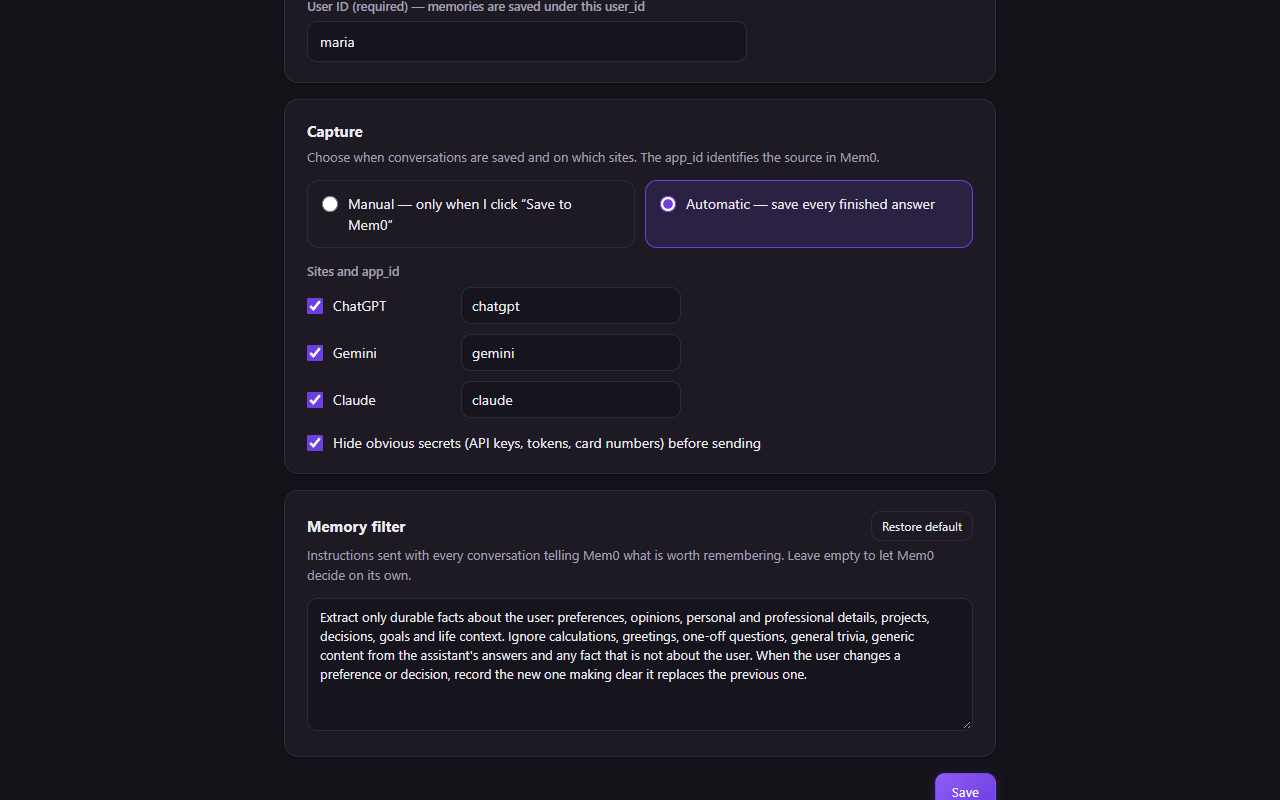
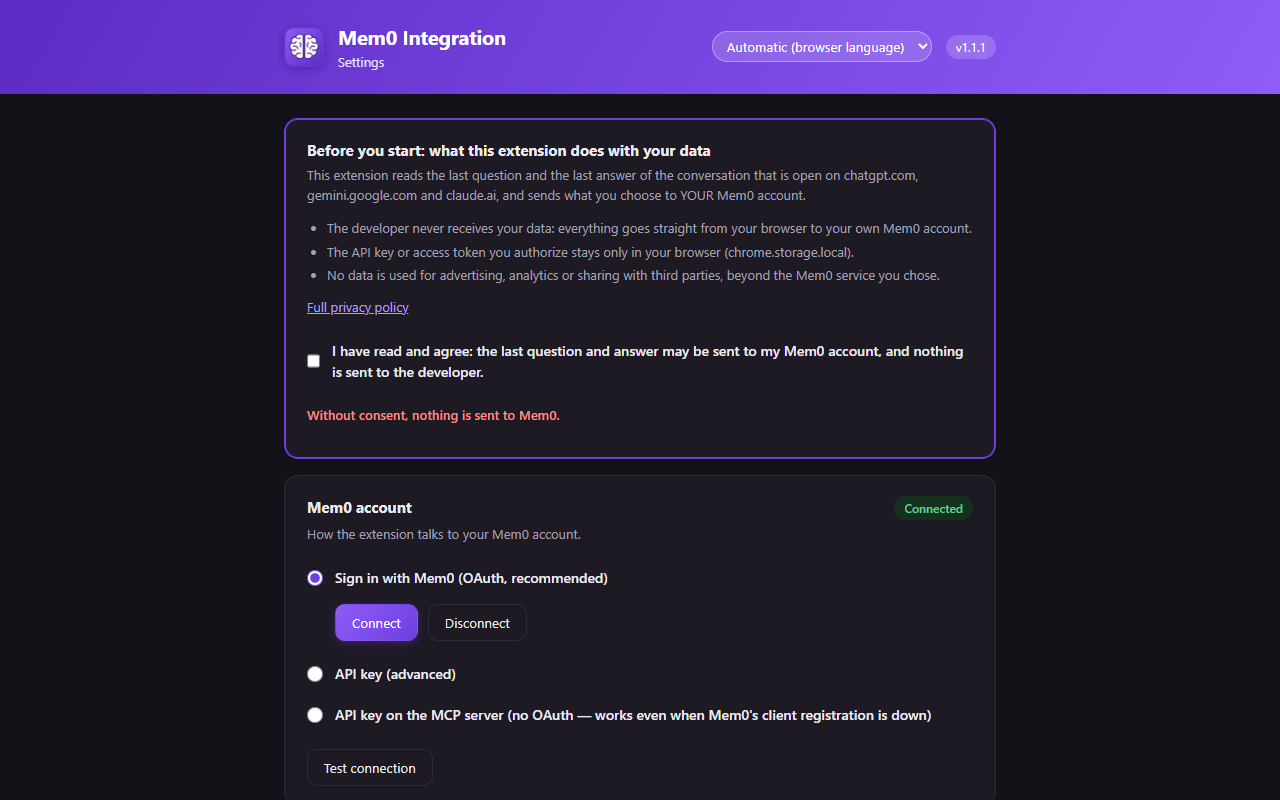
v1.1.1: consentimento de politica de dados (divulgacao na interface + gate no service worker)

diff --git a/src/options.js b/src/options.js
@@ -17,6 +17,8 @@ async function load() {
   for (const k of SITES) { $(`site_${k}`).checked = !!s.sites[k]; $(`app_${k}`).value = s.appIds[k] || k; }
   $("redact").checked = !!s.redactSecrets;
   $("instructions").value = s.instructions || "";
+  $("consent").checked = !!s.consent;
+  consentNote();
   // nos modos com chave de API o estado é a própria chave, não o OAuth
   const connected = s.authMode === "oauth" ? !!auth : !!(s.apiKey || "").trim();
   $("authState").textContent = connected ? t("connected") : t("notConnected");
@@ -41,7 +43,21 @@ function collect() {
     appIds: Object.fromEntries(SITES.map((k) => [k, $(`app_${k}`).value.trim() || k])),
     redactSecrets: $("redact").checked,
     instructions: $("instructions").value.trim(),
+    consent: $("consent").checked,
   };
+}
+
+// o aceite é a condição para qualquer coisa que toque dados do usuário (conectar, testar, enviar)
+function consentNote() {
+  const on = $("consent").checked;
+  $("consentOut").textContent = on ? "" : t("consentOff");
+  $("consentOut").className = "note" + (on ? "" : " err");
+}
+function requireConsent(el) {
+  if ($("consent").checked) return true;
+  show(el, { ok: false, error: t("consentRequired") });
+  $("consentCard").scrollIntoView({ behavior: "smooth", block: "center" });
+  return false;
 }
 
 function show(el, r, okText) {
@@ -50,13 +66,17 @@ function show(el, r, okText) {
 }
 
 document.querySelectorAll("input[name=auth]").forEach((e) => e.addEventListener("change", toggle));
+$("consent").addEventListener("change", consentNote);
 $("save").onclick = async () => {
+  // salvar é sempre permitido: é assim que o usuário revoga o aceite (desmarca e salva)
   show($("saveOut"), await msg({ type: "setSettings", patch: collect() }), t("saved"));
+  consentNote();
   setTimeout(() => { $("saveOut").textContent = ""; }, 2500);
 };
 $("connect").onclick = async () => {
   const b = $("connect");
   if (b.disabled) return;
+  if (!requireConsent($("testOut"))) return;
   b.disabled = true;                       // evita vários cliques enquanto a janela do Mem0 abre
   $("authState").textContent = t("optWaiting");
   $("authState").className = "pill wait";
@@ -79,6 +99,7 @@ $("language").onchange = async () => {
 $("restoreInstr").onclick = async () => { $("instructions").value = (await msg({ type: "defaultInstructions" })).text; };
 $("disconnect").onclick = async () => { await msg({ type: "logout" }); load(); };
 $("test").onclick = async () => {
+  if (!requireConsent($("testOut"))) return;
   await msg({ type: "setSettings", patch: collect() });
   $("testOut").textContent = "…"; show($("testOut"), await msg({ type: "test" }));
 };

diff --git a/src/background.js b/src/background.js
@@ -31,6 +31,7 @@ const DEFAULTS = {
   redactSecrets: true,
   instructions: null,         // null = instrução padrão no idioma escolhido
   language: "auto",           // "auto" (idioma do navegador) | "pt_BR" | "en"
+  consent: false,             // aceite do usuário (política de dados da loja); sem aceite nada é enviado
 };
 
 // ---------- idioma ----------
@@ -372,6 +373,8 @@ async function addViaRest(ex, settings) {
 async function save(raw, { manual }) {
   const settings = await getSettings();
   if (!settings.enabled) return { status: "skipped", reason: "pausado" };
+  // política de dados da loja: sem aceite explícito do usuário, nada sai do navegador
+  if (!settings.consent) return { status: "consent", error: await T("consentNeed") };
   if (!settings.sites[raw.site]) return { status: "skipped", reason: "site desativado" };
   if (!manual && settings.mode !== "auto") return { status: "skipped", reason: "modo manual" };
   if (!settings.userId.trim()) {
@@ -432,9 +435,16 @@ chrome.runtime.onMessage.addListener((msg, _sender, reply) => {
       case "getState": return { settings: await getSettings(), auth: !!(await getAuth())?.accessToken,
         log: (await chrome.storage.local.get("log")).log || [] };
       case "setSettings": await setSettings(msg.patch); return { ok: true };
-      case "login": return login({ force: !!msg.force }).then(() => ({ ok: true }));
+      case "login": {
+        // a conexão OAuth e o teste de chave tocam dados do usuário: exigem aceite
+        if (!(await getSettings()).consent) return { ok: false, error: await T("consentRequired") };
+        return login({ force: !!msg.force }).then(() => ({ ok: true }));
+      }
       case "logout": await logout(); return { ok: true };
-      case "test": return { ok: true, message: await testConnection() };
+      case "test": {
+        if (!(await getSettings()).consent) return { ok: false, error: await T("consentRequired") };
+        return { ok: true, message: await testConnection() };
+      }
       case "clearLog": await chrome.storage.local.set({ log: [] }); chrome.action.setBadgeText({ text: "" }); return { ok: true };
       default: return { error: "mensagem desconhecida" };
     }

diff --git a/src/options.html b/src/options.html
@@ -16,6 +16,22 @@
 </header>
 
 <main class="wrap">
+  <section class="card consent-card" id="consentCard">
+    <div class="card-head"><h2 data-i18n="consentHeading"></h2></div>
+    <p class="desc" data-i18n="consentDesc"></p>
+    <ul class="consent-list">
+      <li data-i18n="consentItem1"></li>
+      <li data-i18n="consentItem2"></li>
+      <li data-i18n="consentItem3"></li>
+    </ul>
+    <p class="desc"><a id="consentPolicy" href="https://dellanio.github.io/memory-bridge/privacy.html" target="_blank" rel="noopener" data-i18n="consentPolicy"></a></p>
+    <label class="choice">
+      <input type="checkbox" id="consent">
+      <span class="choice-body"><strong data-i18n="consentAccept"></strong></span>
+    </label>
+    <p class="note" id="consentOut"></p>
+  </section>
+
   <section class="card">
     <div class="card-head"><h2 data-i18n="secAccount"></h2><span id="authState" class="pill"></span></div>
     <p class="desc" data-i18n="secAccountDesc"></p>

diff --git a/src/ui.css b/src/ui.css
@@ -52,6 +52,11 @@ input[type=radio],input[type=checkbox]{accent-color:var(--brand);width:16px;heig
 .btn.primary:hover{filter:brightness(1.07)}
 .btn.ghost{background:transparent}
 
+/* consentimento (política de dados) */
+.consent-card{border-color:var(--brand);box-shadow:0 0 0 1px var(--brand) inset,var(--shadow)}
+.consent-list{margin:0 0 12px;padding-left:20px;color:var(--muted);font-size:13px}
+.consent-list li{margin:4px 0}
+
 /* status */
 .pill{font-size:12px;font-weight:600;padding:3px 10px;border-radius:999px;background:var(--line);color:var(--muted);white-space:nowrap}
 .pill.ok{background:var(--ok-bg);color:var(--ok)} .pill.wait{background:var(--wait-bg);color:var(--brand)}

diff --git a/src/content.js b/src/content.js
@@ -250,6 +250,7 @@
       flash("ok", t("btnSaved", "Salvo ✓"));
       btn.title = (r.memories || []).join("\n");
     } else if (r.status === "nothing") blinkNothing();
+    else if (r.status === "consent") { blinkNothing(); btn.title = t("consentNeed"); }
     else if (r.status === "duplicate") { if (manual) flash("ok", t("btnAlready", "Já salvo ✓")); }
     else if (r.status === "pending") { if (manual) flash("busy", t("btnPending", "Enviado — o Mem0 ainda está processando"), 3000); }
     else if (r.status === "skipped") { btn.className = ""; lbl.textContent = LABEL; }

diff --git a/store/CHROME-STORE.md b/store/CHROME-STORE.md
@@ -4,7 +4,10 @@ Roteiro campo a campo para o Painel de controle do desenvolvedor da Chrome Web S
 (https://chrome.google.com/webstore/devconsole).
 
 - Conta de desenvolvedor: **planoplusdev@gmail.com**
-- Pacote: `npm run package:chrome` → `dist/memory-bridge-1.1.0-chrome.zip`
+- Pacote: `npm run package:chrome` → `dist/memory-bridge-1.1.1-chrome.zip`
+- Item criado no painel: **Memory Bridge for Mem0**, ID `jabbichbmjfhbmvpjkpinflnjffkgpe`
+  (criado no primeiro upload; a 1.1.0 foi o rascunho inicial e a 1.1.1 é a versão com o
+  consentimento de política de dados, que o Chrome exige).
 - Código: **o mesmo** da loja do Edge (`src/`, `icons/`, `_locales/`). A única diferença
   de manifesto é `minimum_chrome_version: "106"` (ver `scripts/package.mjs --chrome`).
 - O item no Chrome é **novo**: extension ID, listagem e fila de revisão próprios.
@@ -24,8 +27,8 @@ Roteiro campo a campo para o Painel de controle do desenvolvedor da Chrome Web S
 
 | Campo | Valor |
 |---|---|
-| Idioma da listagem | en-US (ou pt-BR — ver "Listagem" abaixo) |
-| Categoria | Produtividade (Productivity) |
+| Idioma da listagem | en-US (uma listagem por item) |
+| Categoria | Workflow & Planning (Productivity) |
 | Site (homepage) | https://dellanio.com |
 | URL de suporte | https://dellanio.github.io/memory-bridge/ |
 | Política de privacidade (URL) | https://dellanio.github.io/memory-bridge/privacy.html |
@@ -33,17 +36,22 @@ Roteiro campo a campo para o Painel de controle do desenvolvedor da Chrome Web S
 | Público-alvo | 13+ / todos os públicos |
 | Visibilidade | Pública |
 
+O campo **Official URL** fica vazio de propósito: ele só aceita domínios registrados no
+Search Console dessa conta, e o `dellanio.com` ainda não está registrado lá (o painel
+mostra "This URL is not verified in Google Search Console"). Para usar, registre o domínio
+no Search Console e associe à conta do Chrome Web Store.
+
 ## Imagens (reaproveitadas da loja do Edge — os tamanhos servem nos dois canais)
 
 | Campo | Arquivo |
 |---|---|
-| Ícone (128×128) | `icons/icon128.png` |
+| Ícone (128×128) | `store/icon-128-rgb.png` (**sem canal alfa** — o Chrome recusa PNG com alfa; o `icons/icon128.png` da extensão tem alfa e não serve para a loja) |
 | Capturas de tela (1280×800) | `store/screenshot-1-options-en.png`, `store/screenshot-2-popup-en.png` (ou `-pt`) |
 | Bloco promocional pequeno (440×280) | `store/promo-440x280-en.png` (ou `-pt`) |
 | Bloco promocional grande (1400×560) | `store/promo-1400x560-en.png` (ou `-pt`) |
 
 O Chrome aceita captura de 1280×800 ou 640×400, até 5 por listagem. Os arquivos acima já
-estão em 1280×800.
+estão em 1280×800, em RGB (24-bit, sem alfa).
 
 ## Listagem
 
@@ -118,38 +126,57 @@ Saves the user's own AI chat exchanges (ChatGPT, Gemini and Claude) to the user'
 
 ## Privacidade / data usage
 
-O Chrome pede a declaração de uso de dados. O que vale declarar:
+O Chrome pede a declaração de uso de dados. A declaração usada é:
 
-- A extensão **não coleta** dados para uso próprio, **não vende** e **não usa** dados para
-  finalidades sem relação com o item (sem anúncios, sem analytics, sem servidor do desenvolvedor).
-- O conteúdo da conversa vai do navegador do usuário **direto para a conta Mem0 do próprio
-  usuário**, porque foi o usuário quem pediu (botão "Salvar no Mem0" ou modo automático que ele
-  ligou). Não há intermediário, não há compartilhamento com terceiros além do Mem0 escolhido
-  pelo usuário, e há um botão "Desconectar" que revoga o token.
-- Política de privacidade pública: https://dellanio.github.io/memory-bridge/privacy.html
+**Tipos de dados tratados (marcar):**
 
-Se o formulário oferecer as opções "Dados coletados" / "Dados compartilhados", a resposta
-honesta é: os dados do usuário (conteúdo da conversa) **não são coletados** pelo desenvolvedor
-e **não são compartilhados** com terceiros — o envio é para o serviço (Mem0) que o próprio
-usuário escolheu e configurou.
+| Caixa | Item |
+|---|---|
+| ✅ | **Website content** — o texto da última pergunta e da última resposta |
+| ✅ | **Personal communications** — as mensagens de chat |
+| ✅ | **Authentication information** — o token/chave de API do Mem0 que o usuário autoriza |
+| ⬜ | as demais (PII, Health, Financial, Location, Web history, User activity) |
+
+**As três certificações (marcar todas):** não vende nem transfere dados para terceiros fora
+do uso aprovado; não usa nem transfere dados para finalidades sem relação com o único
+propósito; não usa nem transfere dados para avaliar a capacidade de crédito.
+
+**Por que isso é honesto.** A extensão lê o conteúdo da página e o envia para fora do
+navegador — para a conta Mem0 **do próprio usuário**, com as **credenciais do próprio
+usuário**, a pedido do usuário. O desenvolvedor não recebe nada: não há servidor dele,
+nem analytics, nem anúncios. O destino (mcp.mem0.ai / api.mem0.ai) é o serviço que o
+usuário escolheu e mantém.
+
+**Por que existe o consentimento (versão 1.1.1).** A Chrome Web Store exige que o produto
+que trata dados do usuário mostre a divulgação de forma destacada **na própria interface**
+e obtenha o consentimento afirmativo do usuário antes disso. Por isso a primeira seção da
+página de opções é a divulgação ("Before you start: what this extension does with your
+data") com uma caixa de aceite:
+
+- sem o aceite, o service worker **recusa** qualquer envio (status `consent`);
+- "Connect" e "Test connection" ficam bloqueados com a mensagem de política;
+- desmarcar e salvar **revoga** o consentimento — nada mais é enviado;
+- a política de privacidade publicada tem a declaração de **Limited Use** exigida pelo
+  Chrome, e está a um clique da extensão (link "Full privacy policy" na página de opções).
 
 ## Notas para a certificação (o revisor precisa de um caminho de teste)
 
 ```
 The extension needs a free Mem0 account (https://app.mem0.ai) to be tested.
 
-1. After installing, the options page opens. Click "Connect" and sign in to Mem0 (OAuth via chrome.identity.launchWebAuthFlow against https://mcp.mem0.ai). Alternatively choose an API key mode ("API key on the MCP server" or "API key") and paste a Mem0 API key.
-2. Fill "User ID" (any text, e.g. "tester") and click "Save".
-3. Open https://chatgpt.com (works without login) and send: "My favorite food is pizza. Reply only: ok".
-4. In automatic mode the "Save to Mem0" button turns green ("Saved ✓") a few seconds after the answer; the toolbar popup lists the memory created ("User's favorite food is pizza"). A question with nothing personal (e.g. "What is 12 x 12?") only makes the button blink grey.
-5. The same button is injected on https://gemini.google.com and https://claude.ai (both work without login; on Claude the conversation list is virtualized, so the extension reads the last mounted exchange).
+1. After installing, the options page opens. It starts with a data-policy disclosure: tick "I have read and agree: the last question and answer may be sent to my Mem0 account, and nothing is sent to the developer" and click "Save". Without that consent the extension refuses to send anything.
+2. Click "Connect" and sign in to Mem0 (OAuth via chrome.identity.launchWebAuthFlow against https://mcp.mem0.ai). Alternatively choose an API key mode ("API key on the MCP server" or "API key") and paste a Mem0 API key.
+3. Fill "User ID" (any text, e.g. "tester") and click "Save".
+4. Open https://chatgpt.com (works without login) and send: "My favorite food is pizza. Reply only: ok".
+5. In automatic mode the "Save to Mem0" button turns green ("Saved ✓") a few seconds after the answer; the toolbar popup lists the memory created ("User's favorite food is pizza"). A question with nothing personal (e.g. "What is 12 x 12?") only makes the button blink grey.
+6. The same button is injected on https://gemini.google.com and https://claude.ai (both work without login; on Claude the conversation list is virtualized, so the extension reads the last mounted exchange).
 
 Permissions:
-- storage: settings, sign-in token and recent activity, kept only in chrome.storage.local.
+- storage: settings, consent flag, sign-in token and recent activity, kept only in chrome.storage.local.
 - identity: OAuth sign-in to Mem0 (launchWebAuthFlow).
 - declarativeNetRequestWithHostAccess: one session rule that removes the Origin header only from the extension's own requests to mcp.mem0.ai (the Mem0 MCP server rejects requests that carry an Origin header with HTTP 403).
 - Host permissions https://mcp.mem0.ai/* and https://api.mem0.ai/*: the only servers the extension talks to.
-- Content scripts on chatgpt.com, chat.openai.com, gemini.google.com and claude.ai: read the last question/answer of the open conversation and show the save button. No data is sent anywhere except to the Mem0 account chosen by the user.
+- Content scripts on chatgpt.com, chat.openai.com, gemini.google.com and claude.ai: read the last question/answer of the open conversation and show the save button. No data is sent anywhere except to the Mem0 account chosen by the user, and only after the user consents in the extension's own UI.
 
 No remote code is loaded; all code is in the package.
 ```

diff --git a/README.md b/README.md
@@ -17,6 +17,7 @@ Browser extension for **Edge e Chrome** (Manifest V3) que salva o que importa da
 - Sends the last exchange (your question + the answer) with a configurable `user_id`, a per-site `app_id` (default `chatgpt` / `gemini` / `claude`) and metadata (`site`, `conversation_id`, `url`). Mem0 extracts the facts; the whole conversation is not stored.
 - Hides obvious secrets before sending (API keys, tokens, JWTs, private keys, card numbers). Can be turned off.
 - Interface in **Portuguese (Brazil)** and **English (US)**: follows the browser language or whatever you pick at the top of the Settings screen.
+- **Data-policy consent on first use:** the Settings screen opens with a plain-language disclosure of what is read and sent; nothing leaves the browser until you tick it and save, and unticking it revokes the consent.
 - Never sends the same exchange twice. History of the last 30 actions in the toolbar icon, with a red "!" when something fails.
 
 ## O que faz
@@ -26,6 +27,7 @@ Browser extension for **Edge e Chrome** (Manifest V3) que salva o que importa da
 - Envia a última troca (sua pergunta + a resposta) com `user_id` configurável, `app_id` por site (padrão `chatgpt` / `gemini` / `claude`) e metadados (`site`, `conversation_id`, `url`). O Mem0 extrai os fatos; a conversa inteira não é guardada.
 - Oculta segredos óbvios antes de enviar (chaves de API, tokens, JWT, chaves privadas, números de cartão). Pode desligar.
 - Interface em **Português (Brasil)** e **English (US)**: segue o idioma do navegador ou o que você escolher no topo da tela de Configurações.
+- **Consentimento de política de dados na primeira uso:** a tela de Configurações abre com a divulgação, em linguagem simples, do que é lido e enviado; nada sai do navegador até você marcar a caixa e salvar, e desmarcar revoga o aceite.
 - Não envia a mesma troca duas vezes. Histórico das últimas 30 ações no ícone, com "!" vermelho quando algo falha.
 
 ---
@@ -80,13 +82,13 @@ Se o login parar do nada, o conserto é: **Configurações → Conectar** (o cli
 
 1. `edge://extensions` (or `chrome://extensions`) → turn on **Developer mode**.
 2. **Load unpacked** → select this folder.
-3. In the options screen that opens: pick the authentication (OAuth, or API key on MCP/REST), click **Connect** (OAuth only) and fill in the **User ID**. **Test connection** confirms.
+3. In the options screen that opens: read the data-policy disclosure at the top, tick **"I have read and agree"** and **Save**, then pick the authentication (OAuth, or API key on MCP/REST), click **Connect** (OAuth only) and fill in the **User ID**. **Test connection** confirms.
 
 ## Instalar (modo desenvolvedor)
 
 1. `edge://extensions` (ou `chrome://extensions`) → ligue **Modo de desenvolvedor**.
 2. **Carregar sem compactação** → selecione esta pasta.
-3. Na tela de opções que abre: escolha a autenticação (OAuth, ou chave de API no MCP/REST), clique **Conectar** (só no OAuth) e preencha o **User ID**. **Testar conexão** confirma.
+3. Na tela de opções que abre: leia a divulgação de política de dados no topo, marque **"Li e concordo"** e **Salve**; depois escolha a autenticação (OAuth, ou chave de API no MCP/REST), clique **Conectar** (só no OAuth) e preencha o **User ID**. **Testar conexão** confirma.
 
 ---
 
@@ -145,11 +147,17 @@ O Claude renomeia os `data-testid` com frequência, então o adapter lê o texto
 
 ## Publication (Edge Add-ons and Chrome Web Store)
 
-Pending before publishing: final icons and screenshots, hosted privacy policy (based on `PRIVACY.md`), testing the OAuth flow with the final store ID (the dynamic registration redoes itself when the `redirect_uri` changes), and validating the Claude adapter with a signed-in account.
+- **Edge Add-ons**: 1.1.0 submitted and under review (store ID `0RDCKB8HRMN4`); the listing (en/pt), icon, screenshots and promo tiles are live.
+- **Chrome Web Store**: new item `jabbichbmjfhbmvpjkpinflnjffkgpe` on the account `planoplusdev@gmail.com`; listing in en-US, assets uploaded, privacy declared. The package built for it is `npm run package:chrome` (`minimum_chrome_version: 106`).
+- Both stores share the same `src/`; only the manifest and the distribution channel differ. Route and pitfalls: `store/PARTNER-CENTER.md` (Edge) and `store/CHROME-STORE.md` (Chrome).
+- Still pending: the Claude adapter has not been validated with a signed-in account, and the Edge item should get 1.1.1 (the version with the data-policy consent) once the 1.1.0 review frees the submission queue.
 
 ## Publicação (Edge Add-ons e Chrome Web Store)
 
-Pendências antes de publicar: ícones definitivos e capturas de tela, política de privacidade hospedada (base em `PRIVACY.md`), testar o fluxo OAuth com o ID definitivo da loja (o registro dinâmico se refaz sozinho quando o `redirect_uri` muda) e validar o adaptador do Claude com conta logada.
+- **Edge Add-ons**: 1.1.0 enviada e em revisão (store ID `0RDCKB8HRMN4`); a listagem (en/pt), o ícone, as capturas e os tiles já estão no ar.
+- **Chrome Web Store**: item novo `jabbichbmjfhbmvpjkpinflnjffkgpe` na conta `planoplusdev@gmail.com`; listagem em en-US, assets enviados e privacidade declarada. O pacote próprio é `npm run package:chrome` (`minimum_chrome_version: 106`).
+- As duas lojas usam o mesmo `src/`; só mudam o manifesto e o canal de distribuição. Roteiro e armadilhas: `store/PARTNER-CENTER.md` (Edge) e `store/CHROME-STORE.md` (Chrome).
+- Pendente: o adaptador do Claude ainda não foi validado com conta logada, e o item do Edge deve receber a 1.1.1 (a versão com o consentimento de política de dados) assim que a revisão da 1.1.0 liberar a fila de submissão.
 
 ## License
 

diff --git a/PRIVACY.md b/PRIVACY.md
@@ -10,11 +10,17 @@ Memory Bridge for Mem0 ("the extension") is an independent browser extension, no
 
 **What the extension reads.** Only on `chatgpt.com`, `chat.openai.com`, `gemini.google.com` and `claude.ai`, and only the last question and the last answer of the conversation that is open in the tab.
 
+**Your consent.** In version 1.1.1 and later, the first section of the settings page explains, in plain language, what is read and sent, and nothing leaves your browser until you tick that box and save. You can untick it and save again at any time, and from that moment on nothing is sent to Mem0 either. In earlier versions (1.1.0 and below), data was only ever sent after an explicit action of yours — clicking "Save to Mem0" or turning on automatic mode.
+
 **When it sends data.** When you click "Save to Mem0" or, if you turn on automatic mode, when an answer finishes.
 
 **What it sends and where.** The question and the answer, the site name, the conversation ID, the page URL, the User ID you configured and your memory-filter instructions. They go directly from your browser to your own Mem0 account (`mcp.mem0.ai` or `api.mem0.ai`). Before sending, obvious secrets (API keys, tokens, private keys and card numbers) are replaced with `[REDACTED]` unless you turn that option off. Mem0 then decides which facts to keep, under its own terms and privacy policy (https://mem0.ai).
 
+**Data types handled.** Website content (the text of the question and answer), personal communications (your chat messages) and authentication information (the Mem0 access token or API key you authorize). The token or key is stored only in your browser's local extension storage and is sent only to Mem0, to authenticate the requests on your behalf.
+
 **What is never done.** There is no developer server, no analytics, no advertising, no sale or sharing of data with third parties, and no remote code.
+
+**Limited Use disclosure.** This extension complies with the Chrome Web Store User Data Policy. It collects, transmits and uses user data only for the single purpose described above: sending the conversation you chose to your own Mem0 account. It does not use user data for advertising, analytics or any purpose unrelated to that single purpose, and it does not sell user data. The only third party involved is the Mem0 service that you yourself choose and account for.
 
 **What stays in your browser.** Settings, the Mem0 sign-in token or API key, identifiers of conversations already sent (to avoid duplicates) and the last 30 activity entries. Everything is kept in the browser's local extension storage and is not synchronized.
 
@@ -32,11 +38,17 @@ O Memory Bridge para Mem0 ("a extensão") é uma extensão independente, sem ví
 
 **O que a extensão lê.** Somente em `chatgpt.com`, `chat.openai.com`, `gemini.google.com` e `claude.ai`, e somente a última pergunta e a última resposta da conversa aberta na aba.
 
+**O seu consentimento.** A partir da versão 1.1.1, a primeira seção da página de configurações explica, em linguagem simples, o que é lido e o que é enviado, e nada sai do seu navegador até você marcar a caixa e salvar. Você pode desmarcar e salvar de novo quando quiser: a partir daí, nada mais é enviado ao Mem0. Em versões anteriores (1.1.0 e abaixo), os dados só eram enviados depois de uma ação explícita sua — clicar em "Salvar no Mem0" ou ligar o modo automático.
+
 **Quando envia.** Quando você clica em "Salvar no Mem0" ou, se ligar o modo automático, quando uma resposta termina.
 
 **O que envia e para onde.** A pergunta e a resposta, o nome do site, o ID da conversa, o endereço da página, o User ID que você configurou e as suas instruções do filtro de memórias. Tudo vai direto do seu navegador para a sua conta Mem0 (`mcp.mem0.ai` ou `api.mem0.ai`). Antes do envio, segredos óbvios (chaves de API, tokens, chaves privadas e números de cartão) são trocados por `[REDACTED]`, a menos que você desligue essa opção. O Mem0 decide quais fatos guardar, sob os termos e a política de privacidade dele (https://mem0.ai).
 
+**Tipos de dados tratados.** Conteúdo de página (o texto da pergunta e da resposta), comunicações pessoais (as suas mensagens de chat) e informações de autenticação (o token de acesso ou a chave de API do Mem0 que você autorizar). O token ou a chave ficam apenas no armazenamento local da extensão, no seu navegador, e são enviados somente ao Mem0, para autenticar as requisições em seu nome.
+
 **O que nunca é feito.** Não há servidor do desenvolvedor, análise de uso, anúncios, venda ou compartilhamento de dados com terceiros, nem código carregado de fora.
+
+**Declaração de uso limitado (Limited Use).** Esta extensão cumpre a Política de Dados do Usuário da Chrome Web Store. Ela coleta, transmite e usa dados do usuário somente para o único propósito descrito acima: enviar a conversa que você escolheu para a sua própria conta Mem0. Não usa dados do usuário para publicidade, análise de uso nem para qualquer finalidade ligada a esse propósito, e não vende dados do usuário. O único terceiros envolvido é o serviço Mem0, que é você mesmo quem escolhe e mantém.
 
 **O que fica no navegador.** Configurações, o token de acesso ao Mem0 ou a chave de API, identificadores das conversas já enviadas (para não duplicar) e as últimas 30 linhas de atividade. Tudo fica no armazenamento local da extensão e não é sincronizado.
 

diff --git a/docs/privacy.md b/docs/privacy.md
@@ -10,11 +10,17 @@ Memory Bridge for Mem0 ("the extension") is an independent browser extension, no
 
 **What the extension reads.** Only on `chatgpt.com`, `chat.openai.com`, `gemini.google.com` and `claude.ai`, and only the last question and the last answer of the conversation that is open in the tab.
 
+**Your consent.** In version 1.1.1 and later, the first section of the settings page explains, in plain language, what is read and sent, and nothing leaves your browser until you tick that box and save. You can untick it and save again at any time, and from that moment on nothing is sent to Mem0 either. In earlier versions (1.1.0 and below), data was only ever sent after an explicit action of yours — clicking "Save to Mem0" or turning on automatic mode.
+
 **When it sends data.** When you click "Save to Mem0" or, if you turn on automatic mode, when an answer finishes.
 
 **What it sends and where.** The question and the answer, the site name, the conversation ID, the page URL, the User ID you configured and your memory-filter instructions. They go directly from your browser to your own Mem0 account (`mcp.mem0.ai` or `api.mem0.ai`). Before sending, obvious secrets (API keys, tokens, private keys and card numbers) are replaced with `[REDACTED]` unless you turn that option off. Mem0 then decides which facts to keep, under its own terms and privacy policy (https://mem0.ai).
 
+**Data types handled.** Website content (the text of the question and answer), personal communications (your chat messages) and authentication information (the Mem0 access token or API key you authorize). The token or key is stored only in your browser's local extension storage and is sent only to Mem0, to authenticate the requests on your behalf.
+
 **What is never done.** There is no developer server, no analytics, no advertising, no sale or sharing of data with third parties, and no remote code.
+
+**Limited Use disclosure.** This extension complies with the Chrome Web Store User Data Policy. It collects, transmits and uses user data only for the single purpose described above: sending the conversation you chose to your own Mem0 account. It does not use user data for advertising, analytics or any purpose unrelated to that single purpose, and it does not sell user data. The only third party involved is the Mem0 service that you yourself choose and account for.
 
 **What stays in your browser.** Settings, the Mem0 sign-in token or API key, identifiers of conversations already sent (to avoid duplicates) and the last 30 activity entries. Everything is kept in the browser's local extension storage and is not synchronized.
 
@@ -32,11 +38,17 @@ O Memory Bridge para Mem0 ("a extensão") é uma extensão independente, sem ví
 
 **O que a extensão lê.** Somente em `chatgpt.com`, `chat.openai.com`, `gemini.google.com` e `claude.ai`, e somente a última pergunta e a última resposta da conversa aberta na aba.
 
+**O seu consentimento.** A partir da versão 1.1.1, a primeira seção da página de configurações explica, em linguagem simples, o que é lido e o que é enviado, e nada sai do seu navegador até você marcar a caixa e salvar. Você pode desmarcar e salvar de novo quando quiser: a partir daí, nada mais é enviado ao Mem0. Em versões anteriores (1.1.0 e abaixo), os dados só eram enviados depois de uma ação explícita sua — clicar em "Salvar no Mem0" ou ligar o modo automático.
+
 **Quando envia.** Quando você clica em "Salvar no Mem0" ou, se ligar o modo automático, quando uma resposta termina.
 
 **O que envia e para onde.** A pergunta e a resposta, o nome do site, o ID da conversa, o endereço da página, o User ID que você configurou e as suas instruções do filtro de memórias. Tudo vai direto do seu navegador para a sua conta Mem0 (`mcp.mem0.ai` ou `api.mem0.ai`). Antes do envio, segredos óbvios (chaves de API, tokens, chaves privadas e números de cartão) são trocados por `[REDACTED]`, a menos que você desligue essa opção. O Mem0 decide quais fatos guardar, sob os termos e a política de privacidade dele (https://mem0.ai).
 
+**Tipos de dados tratados.** Conteúdo de página (o texto da pergunta e da resposta), comunicações pessoais (as suas mensagens de chat) e informações de autenticação (o token de acesso ou a chave de API do Mem0 que você autorizar). O token ou a chave ficam apenas no armazenamento local da extensão, no seu navegador, e são enviados somente ao Mem0, para autenticar as requisições em seu nome.
+
 **O que nunca é feito.** Não há servidor do desenvolvedor, análise de uso, anúncios, venda ou compartilhamento de dados com terceiros, nem código carregado de fora.
+
+**Declaração de uso limitado (Limited Use).** Esta extensão cumpre a Política de Dados do Usuário da Chrome Web Store. Ela coleta, transmite e usa dados do usuário somente para o único propósito descrito acima: enviar a conversa que você escolheu para a sua própria conta Mem0. Não usa dados do usuário para publicidade, análise de uso nem para qualquer finalidade ligada a esse propósito, e não vende dados do usuário. O único terceiros envolvido é o serviço Mem0, que é você mesmo quem escolhe e mantém.
 
 **O que fica no navegador.** Configurações, o token de acesso ao Mem0 ou a chave de API, identificadores das conversas já enviadas (para não duplicar) e as últimas 30 linhas de atividade. Tudo fica no armazenamento local da extensão e não é sincronizado.
 
